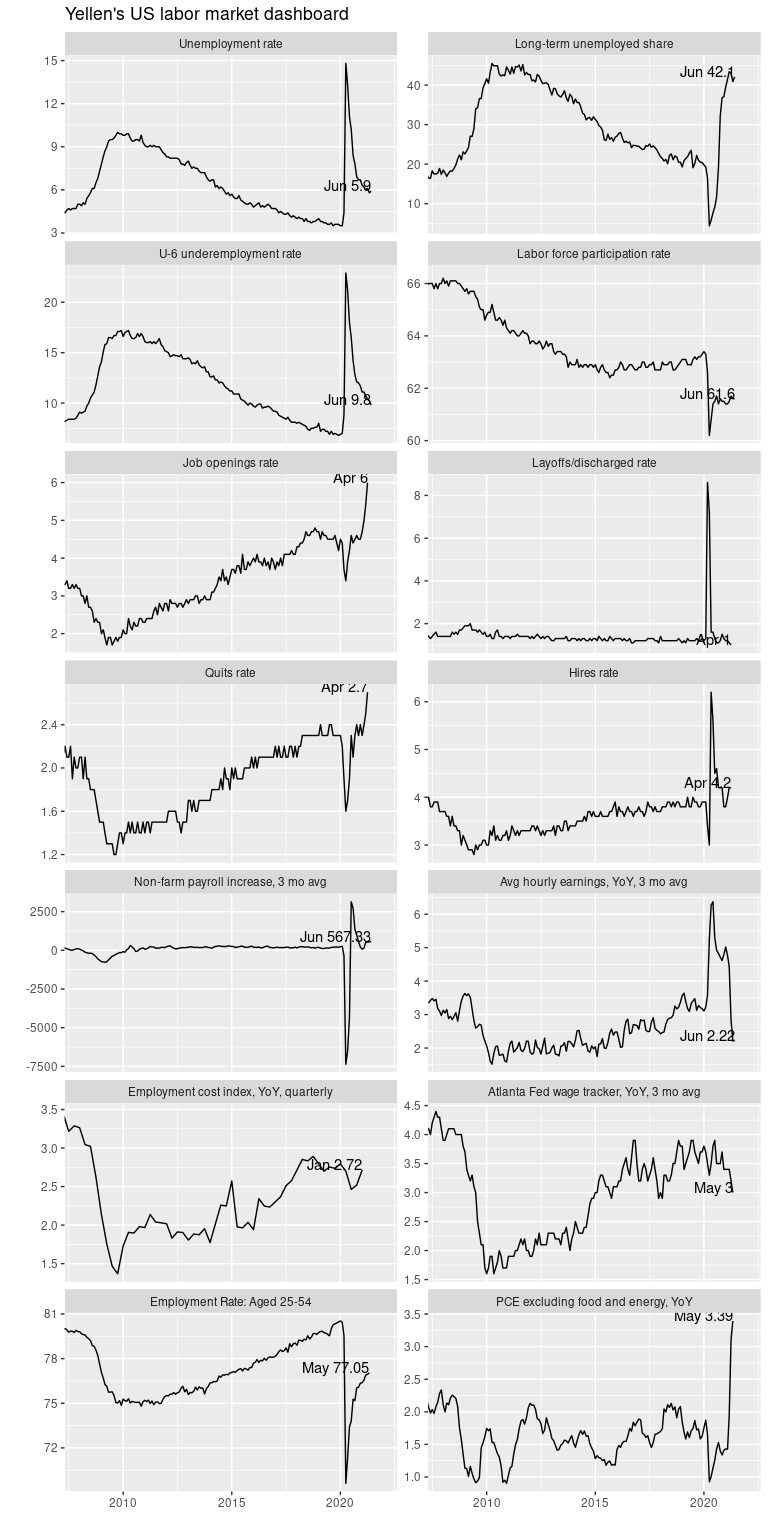
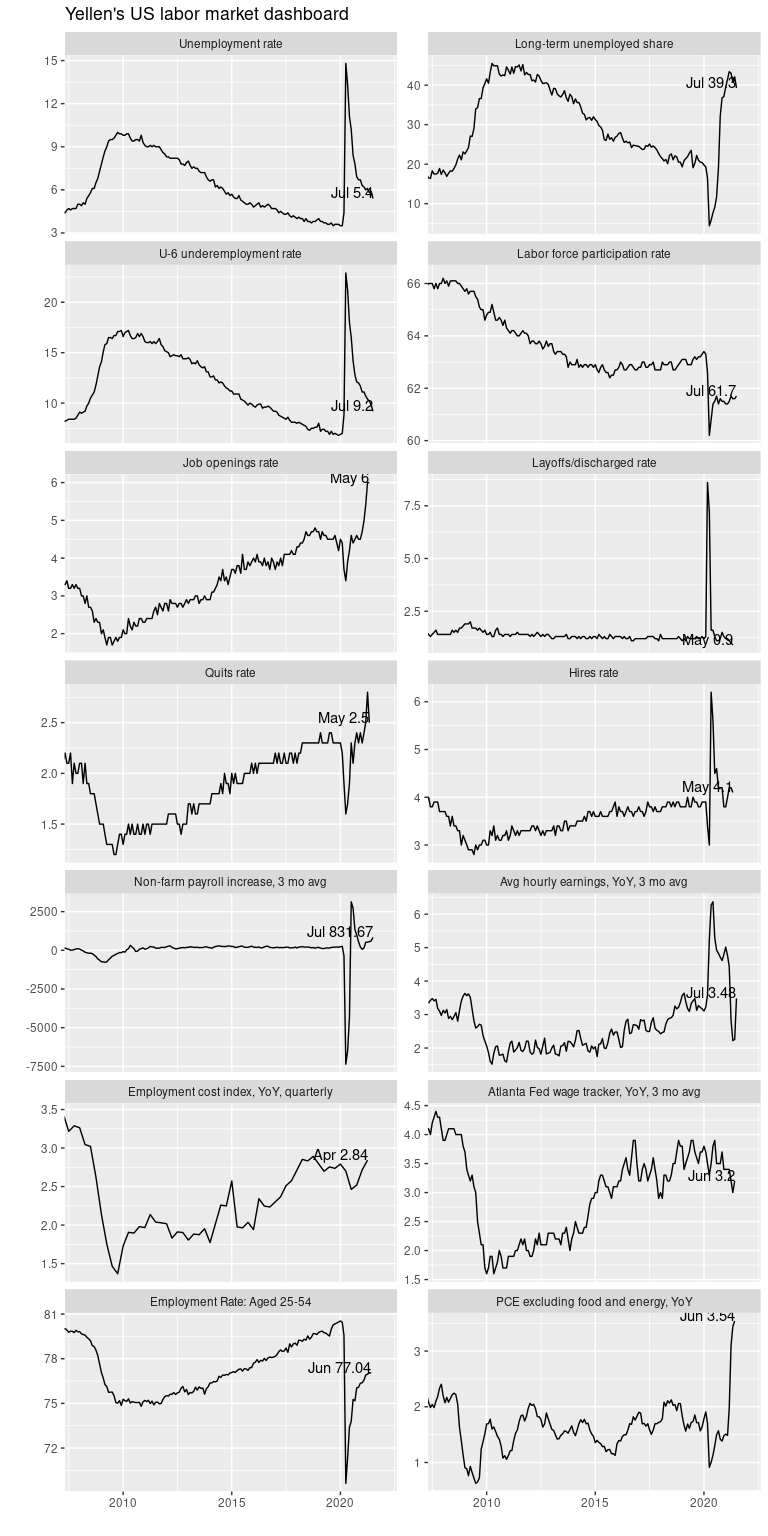
update July 2021 employment

diff --git a/README.md b/README.md
@@ -14,7 +14,7 @@ Mitsuo Shiota
 -   [Prepare for the plot](#prepare-for-the-plot)
 -   [Dashboard](#dashboard)
 
-Updated: 2021-07-03
+Updated: 2021-08-07
 
 ## Summary
 
